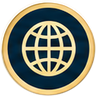
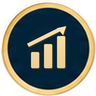
Separate Racing Wire Industry and International badges

Changed region(s): [[0.2188, 0.1875, 0.8125, 0.8125]]

diff --git a/public/preview/racing-wire-5333548f0ffee31ba519b2470ffb/index.html b/public/preview/racing-wire-5333548f0ffee31ba519b2470ffb/index.html
@@ -141,7 +141,7 @@ function icon(kind){
  el.className='emblem';
  el.setAttribute('aria-hidden','true');
  const img=document.createElement('img');
- img.src='/assets/approved/racing-wire/badges/'+asset+'.png?v=15';
+ img.src='/assets/approved/racing-wire/badges/'+asset+'.png?v=16';
  img.alt='';
  img.width=96;img.height=96;
  img.decoding='async';
